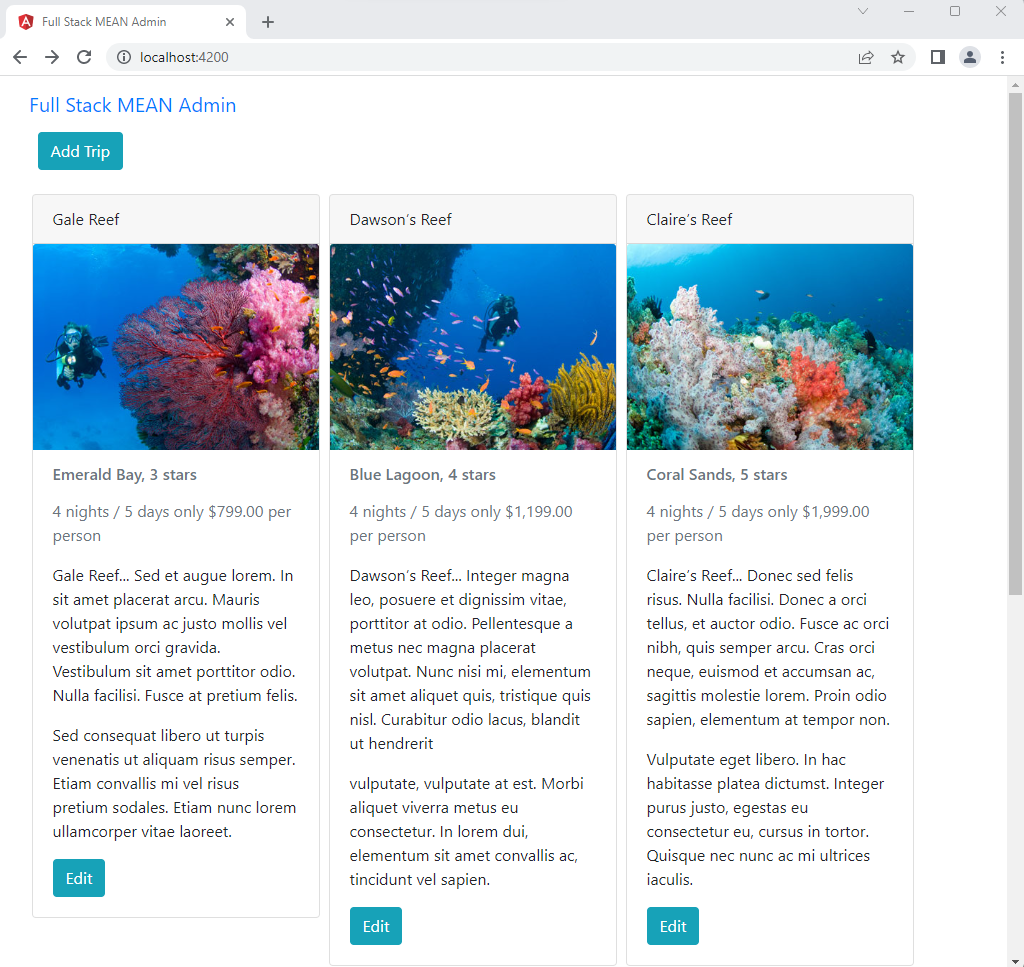
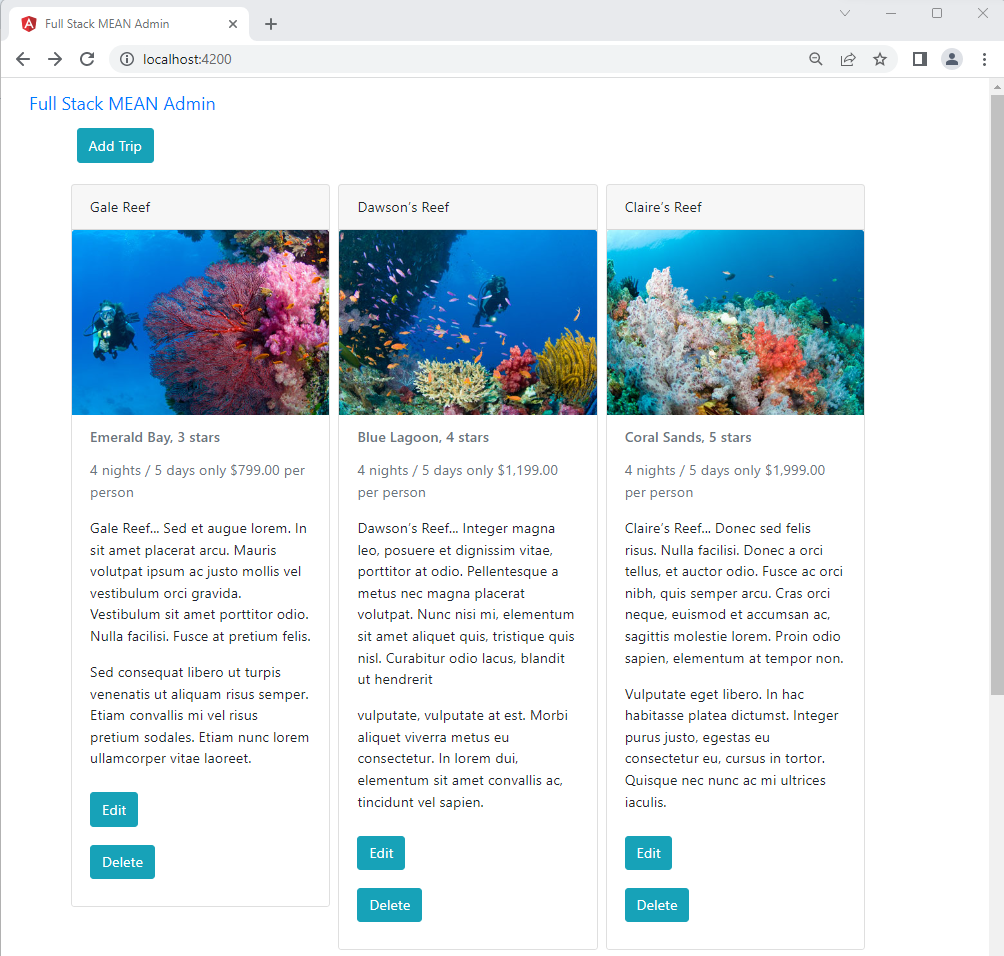
added delete-trip component to admin SPA

diff --git a/app_admin/src/app/delete-trip/delete-trip.component.html b/app_admin/src/app/delete-trip/delete-trip.component.html
@@ -1,0 +1,87 @@
+<div class="col-md-3"> 
+  <h2 class="text-center">Delete Trip</h2> 
+  <form [formGroup]="deleteForm" (ngSubmit)="onSubmit()"> 
+
+    <div class="form-group"> 
+      <label>Code:</label> 
+      <input type="text" formControlName="code" placeholder="Code" class="form-control" 
+        [ngClass]="{ 'is-invalid': submitted && f.code.errors }"> 
+      <div *ngIf="submitted && f.code.errors"> 
+        <div *ngIf="f.code.errors.required">Trip Code is required
+        </div> 
+      </div> 
+    </div> 
+
+    <div class="form-group"> 
+      <label>Name:</label> 
+      <input type="text" formControlName="name" placeholder="Name" class="form-control" 
+        [ngClass]="{ 'is-invalid': submitted && f.name.errors }"> 
+      <div *ngIf="submitted && f.name.errors"> 
+        <div *ngIf="f.name.errors.required">Name is required 
+        </div> 
+      </div> 
+    </div> 
+    
+    <div class="form-group"> 
+      <label>Length:</label> 
+      <input type="text" formControlName="length" placeholder="Length" class="form-control" 
+        [ngClass]="{ 'is-invalid': submitted && f.name.errors }"> 
+      <div *ngIf="submitted && f.name.errors"> 
+        <div *ngIf="f.name.errors.required">Length is required 
+        </div> 
+      </div> 
+    </div> 
+    
+    <div class="form-group"> 
+      <label>Start Date:</label> 
+      <input type="text" formControlName="start" placeholder="Start" class="form-control" 
+        [ngClass]="{ 'is-invalid': submitted && f.name.errors }"> 
+      <div *ngIf="submitted && f.name.errors"> 
+        <div *ngIf="f.name.errors.required">Start Date is required 
+        </div> 
+      </div> 
+    </div> 
+    
+    <div class="form-group"> 
+      <label>Resort:</label> 
+      <input type="text" formControlName="resort" placeholder="Resort" class="form-control" 
+        [ngClass]="{ 'is-invalid': submitted && f.name.errors }"> 
+      <div *ngIf="submitted && f.name.errors"> 
+        <div *ngIf="f.name.errors.required">Resort is required 
+        </div> 
+      </div> 
+    </div> 
+    
+    <div class="form-group"> 
+      <label>Per Person:</label> 
+      <input type="text" formControlName="perPerson" placeholder="PerPerson" class="form-control" 
+        [ngClass]="{ 'is-invalid': submitted && f.name.errors }"> 
+      <div *ngIf="submitted && f.name.errors"> 
+        <div *ngIf="f.name.errors.required">Per Person is required 
+        </div> 
+      </div> 
+    </div> 
+    
+    <div class="form-group"> 
+      <label>Image:</label> 
+      <input type="text" formControlName="image" placeholder="Image" class="form-control" 
+        [ngClass]="{ 'is-invalid': submitted && f.name.errors }"> 
+      <div *ngIf="submitted && f.name.errors"> 
+        <div *ngIf="f.name.errors.required">Image is required 
+        </div> 
+      </div> 
+    </div> 
+        
+    <div class="form-group"> 
+      <label>Description:</label> 
+      <input type="text" formControlName="description" placeholder="Description" class="form-control" 
+        [ngClass]="{ 'is-invalid': submitted && f.name.errors }"> 
+      <div *ngIf="submitted && f.name.errors"> 
+        <div *ngIf="f.name.errors.required">Description is required 
+        </div> 
+      </div> 
+    </div> 
+
+    <button type="submit" class="btn btn-info">Delete</button> 
+  </form> 
+</div>

diff --git a/app_admin/src/app/delete-trip/delete-trip.component.ts b/app_admin/src/app/delete-trip/delete-trip.component.ts
@@ -1,0 +1,87 @@
+import { Component, OnInit } from '@angular/core';
+import { FormBuilder, FormGroup, Validators } from '@angular/forms';
+import { Router } from '@angular/router';
+import { TripDataService } from '../services/trip-data.service';
+
+@Component({
+  selector: 'app-delete-trip',
+  templateUrl: './delete-trip.component.html',
+  styleUrls: ['./delete-trip.component.css']
+})
+export class DeleteTripComponent implements OnInit {
+
+  deleteForm: FormGroup;
+  submitted = false;
+
+  constructor(
+    private formBuilder: FormBuilder,
+    private router: Router,
+    private tripService: TripDataService
+  ) { }
+
+  ngOnInit() {
+    // retrieve stashed tripId
+    let tripCode = localStorage.getItem("tripCode");
+    if (!tripCode) {
+      alert("Something went wrong, couldn't find where I stashed tripCode!");
+      this.router.navigate(['']);
+      return;
+    }
+
+    console.log('DeleteTripComponent#onInit found tripCode ' + tripCode);
+
+    // initialize the form
+    this.deleteForm = this.formBuilder.group({
+      _id: [],
+      code: [tripCode, Validators.required],
+      name: ['', Validators.required],
+      length: ['', Validators.required],
+      start: ['', Validators.required],
+      resort: ['', Validators.required],
+      perPerson: ['', Validators.required],
+      image: ['', Validators.required],
+      description: ['', Validators.required],
+    })
+
+    // disable the form controls to make more obvious to user that this form is for deletion
+    this.deleteForm.controls.code.disable();
+    this.deleteForm.controls.name.disable();
+    this.deleteForm.controls.length.disable();
+    this.deleteForm.controls.start.disable();
+    this.deleteForm.controls.resort.disable();
+    this.deleteForm.controls.perPerson.disable();
+    this.deleteForm.controls.image.disable();
+    this.deleteForm.controls.description.disable();
+
+    console.log('DeleteTripComponent#onInit calling TripDataService#getTrip(\'' + tripCode + '\')'); 
+    
+    this.tripService.getTrip(tripCode) 
+      .then(data => { 
+        console.log(data); 
+        // Don't use deleteForm.setValue() as it will throw console error
+        this.deleteForm.patchValue(data[0]); 
+    })
+  } 
+  
+  onSubmit() { 
+    // enable the form controls so the call to tripService.deleteTrip can access the data from the deleteForm
+    this.deleteForm.controls.code.enable();
+    this.deleteForm.controls.name.enable();
+    this.deleteForm.controls.length.enable();
+    this.deleteForm.controls.start.enable();
+    this.deleteForm.controls.resort.enable();
+    this.deleteForm.controls.perPerson.enable();
+    this.deleteForm.controls.image.enable();
+    this.deleteForm.controls.description.enable();
+    // flip submitted to true
+    this.submitted = true; 
+    // Send the the form data to the tripService.deleteTrip method
+    if (this.deleteForm.valid) { 
+      this.tripService.deleteTrip(this.deleteForm.value) 
+        .then(data => { 
+          console.log(data); 
+          this.router.navigate(['']); 
+        }); 
+    } 
+  }
+}

diff --git a/app_api/controllers/trips.js b/app_api/controllers/trips.js
@@ -69,6 +69,7 @@ const tripsAddTrip = async (req, res) => {
     });
 }
 
+// PUT: /trips/:tripCode - updates an existing trip
 const tripsUpdateTrip = async (req, res) => {
     console.log(req.body); 
     Model
@@ -104,9 +105,37 @@ const tripsUpdateTrip = async (req, res) => {
         }); 
 }
 
+// DELETE: /trips/:tripCode - deletes an existing trip
+const tripsDeleteTrip = async (req, res) => {
+    console.log(req.body); 
+    Model
+    .findOneAndDelete({ 'code': req.params.tripCode })
+    .then(trip => {
+        if (!trip) {
+            return res 
+                .status(404) 
+                .send({ 
+                    message: "Trip not found with code " + req.params.tripCode 
+                });
+            } res.send(trip); 
+        }).catch(err => {
+            if (err.kind === 'ObjectId') {
+                return res 
+                    .status(404) 
+                    .send({ 
+                        message: "Trip not found with code " + req.params.tripCode 
+                }); 
+            } 
+            return res 
+                .status(500) // server error 
+                .json(err); 
+        }); 
+}
+
 module.exports = {
     tripsList,
     tripsFindCode,
     tripsAddTrip,
-    tripsUpdateTrip
+    tripsUpdateTrip,
+    tripsDeleteTrip
 };

diff --git a/app_admin/src/app/app.module.ts b/app_admin/src/app/app.module.ts
@@ -10,6 +10,7 @@ import { TripCardComponent } from './trip-card/trip-card.component';
 import { TripDataService } from './services/trip-data.service';
 import { AddTripComponent } from './add-trip/add-trip.component';
 import { EditTripComponent } from './edit-trip/edit-trip.component';
+import { DeleteTripComponent } from './delete-trip/delete-trip.component';
 
 @NgModule({
   declarations: [
@@ -17,7 +18,8 @@ import { EditTripComponent } from './edit-trip/edit-trip.component';
     TripListingComponent,
     TripCardComponent,
     AddTripComponent,
-    EditTripComponent
+    EditTripComponent,
+    DeleteTripComponent
   ],
   imports: [
     BrowserModule,

diff --git a/app_admin/src/app/app-router.module.ts b/app_admin/src/app/app-router.module.ts
@@ -3,10 +3,12 @@ import { Routes, RouterModule } from '@angular/router';
 import { TripListingComponent } from './trip-listing/trip-listing.component';
 import { AddTripComponent } from './add-trip/add-trip.component';
 import {EditTripComponent } from './edit-trip/edit-trip.component';
+import { DeleteTripComponent } from './delete-trip/delete-trip.component';
 
 const routes: Routes = [
     { path: 'add-trip', component: AddTripComponent },
     { path: 'edit-trip', component: EditTripComponent },
+    { path: 'delete-trip', component: DeleteTripComponent },
     { path: '', component: TripListingComponent, pathMatch: 'full' }
 ]
 

diff --git a/app_admin/src/app/services/trip-data.service.ts b/app_admin/src/app/services/trip-data.service.ts
@@ -48,6 +48,16 @@ export class TripDataService {
       .catch(this.handleError);
   }
 
+  public deleteTrip(formData: Trip): Promise<Trip> {
+    console.log('Inside TripDataService#deleteTrip');
+    console.log(formData);
+    return this.http
+      .delete(this.tripUrl + "/" + formData.code)
+      .toPromise()
+      .then(response => response.json() as Trip[])
+      .catch(this.handleError);
+  }
+
   private handleError(error: any): Promise<any> {
     console.error('Something has gone wrong', error); // for demo purposes only
     return Promise.reject(error.message || error);

diff --git a/app_admin/src/app/trip-card/trip-card.component.ts b/app_admin/src/app/trip-card/trip-card.component.ts
@@ -23,4 +23,10 @@ export class TripCardComponent implements OnInit {
     localStorage.setItem("tripCode", trip.code);
     this.router.navigate(['edit-trip']);
   }
+
+  private deleteTrip(trip: Trip): void {
+    localStorage.removeItem("tripCode");
+    localStorage.setItem("tripCode", trip.code);
+    this.router.navigate(['delete-trip']);
+  }
 }

diff --git a/app_api/routes/index.js b/app_api/routes/index.js
@@ -12,6 +12,7 @@ router
 router
     .route('/trips/:tripCode')
     .get(tripsController.tripsFindCode)
-    .put(tripsController.tripsUpdateTrip);
+    .put(tripsController.tripsUpdateTrip)
+    .delete(tripsController.tripsDeleteTrip);
 
 module.exports = router;

diff --git a/app_admin/src/app/trip-card/trip-card.component.html b/app_admin/src/app/trip-card/trip-card.component.html
@@ -13,6 +13,8 @@
     </p>
     <div>
       <button (click)="editTrip(trip)" class="btn btn-info">Edit</button>
+      <br>
+      <button (click)="deleteTrip(trip)" class="btn btn-info">Delete</button>
     </div> 
   </div> 
 </div> 

diff --git a/app_admin/src/app/trip-card/trip-card.component.css b/app_admin/src/app/trip-card/trip-card.component.css
@@ -1,0 +1,4 @@
+button {
+    margin-top: 10px;
+    margin-bottom: 10px;
+}
